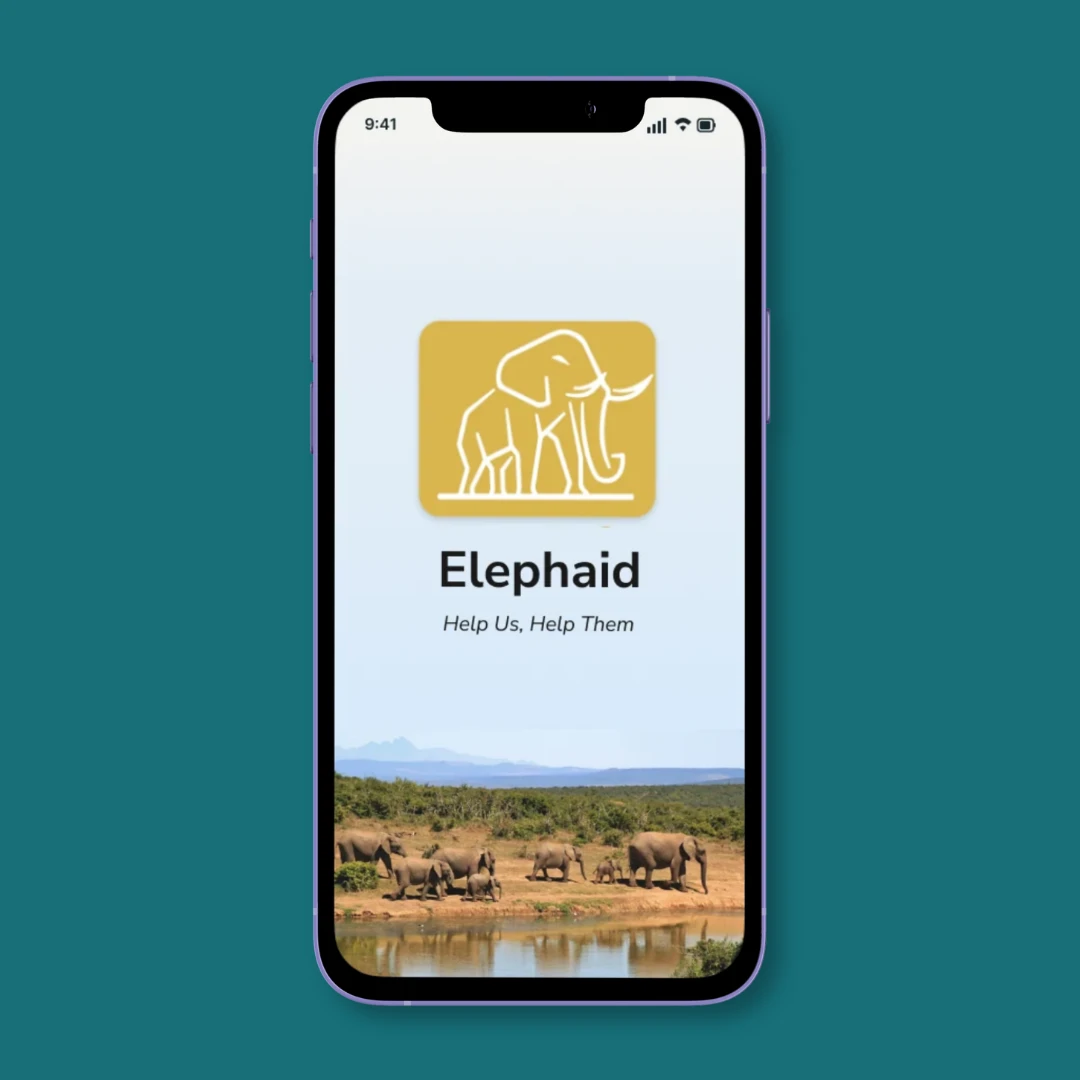
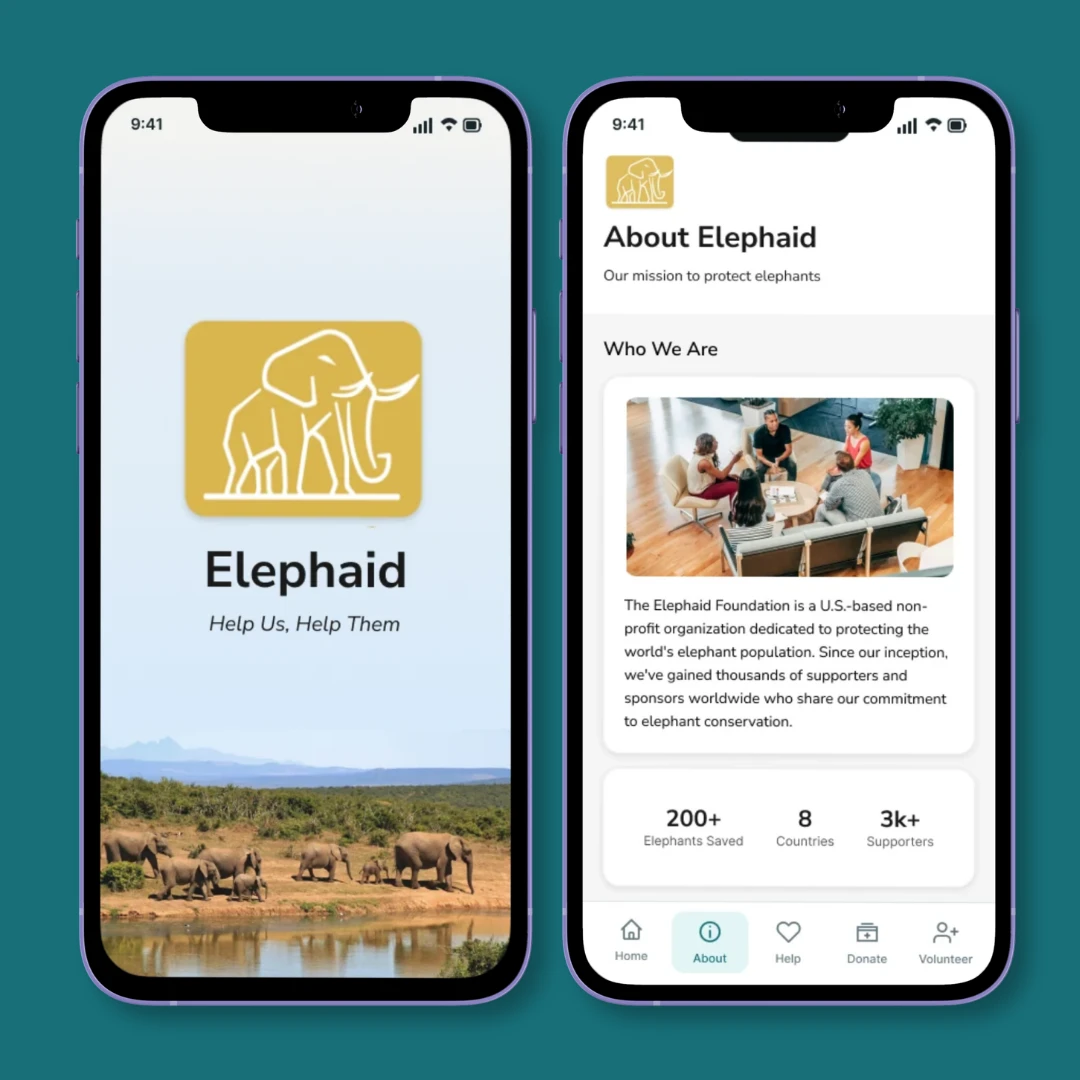
Elephaid homepage card: two-phone mockup (splash + about)

diff --git a/src/data/projects.js b/src/data/projects.js
@@ -11,10 +11,10 @@ const projects = [
     description: 'A mobile redesign for an elephant conservation nonprofit, making its mission easier to explore and giving supporters clear ways to donate or volunteer.',
     tags: ['UX/UI Design', 'Accessibility', 'Figma'],
     image: elephaidMockup,
-    // square phone mockup on flat teal: shown whole, with the same teal
+    // two-phone mockup on flat teal: shown whole, with the same teal
     // filling the rest of the card so the edges disappear
     imageFit: 'fill',
-    imageBg: '#176F79',
+    imageBg: '#186F78',
     slug: 'elephaid',
   },
   {

diff --git a/CLAUDE.md b/CLAUDE.md
@@ -49,7 +49,7 @@ Personal portfolio for Bri Miller, a UX/UI designer. React 19 + Vite, styled wit
 
 - **Navbar:** logo left, `work · about · contact · resume` right (resume is a pill). Fixed, but hides while scrolling down and slides back in on scroll up (Bri chose this over always-fixed or a back-to-top button); off the very top it gets a translucent cream background. Bri wants this height kept as-is.
 - **Hero:** one-line headline "hi, i'm bri and i design experiences people [return to. / trust. / enjoy.]", capped ~46px. The rotating word has reserved width so the line doesn't shift. On < 760px it wraps. Tagline + LoopyArrow below.
-- **Featured Work:** `src/data/projects.js` drives large alternating image/info blocks (`ProjectCard`). Wide screenshots use `imageFit: 'contain'`. Order (Bri's choice): 01 Elephaid (Bri's square phone mockup on flat teal, `imageFit: 'fill'` + `imageBg: '#176F79'` so the whole phone shows at any card shape), 02 Bowlsome Smoothie, 03 Camp Woofs & Wiggles. Case study "next" links follow this order.
+- **Featured Work:** `src/data/projects.js` drives large alternating image/info blocks (`ProjectCard`). Wide screenshots use `imageFit: 'contain'`. Order (Bri's choice): 01 Elephaid (Bri's two-phone mockup (splash + about) on flat teal, `imageFit: 'fill'` + `imageBg: '#186F78'` so both phones show whole at any card shape), 02 Bowlsome Smoothie, 03 Camp Woofs & Wiggles. Case study "next" links follow this order.
 - **About:** banner, then photo (coral ring) left + text right; stacks on mobile. Headline "curious about the why. creative with the how." Then the small arrow, SKILLS & TOOLS, and an infinite skills marquee (pauses on hover, respects reduced motion).
 - **Contact:** banner, then three lines: say hello (click copies the email and shows "copied!" for 2s; no mailto), connect (LinkedIn), resume (download pdf ↓).
 - **Footer:** logo left, © line center, LINKEDIN · RESUME · WORK right, all small uppercase.
